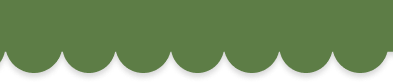
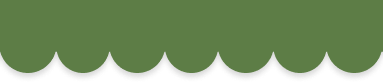
imagemzinha????

diff --git a/NABU_base/CSS/meus_estilos.css b/NABU_base/CSS/meus_estilos.css
@@ -20,12 +20,26 @@
 }
 .corpo {
 
-    max-width: 768px
+    background-color: #1cabc4;
+
+
 
 }
 
 .cabecalho {
-    max-height: 10%;
-    background-color: black;
+    height: 10vh;
+    background-image: url('../Imagens/img_cp/header_bg.png');
+    background-repeat: repeat-x;       /* repete na horizontal */
+    background-size: auto 100%;        /* altura 100%, largura automática */
+    background-position: center;
+
+
+}
+
+footer {
+
+    height: 10vh;
+    background-color: greenyellow;
+
 }
 

diff --git a/NABU_base/Componentes/cp_head.php b/NABU_base/Componentes/cp_head.php
@@ -15,7 +15,7 @@
         <link href="https://cdn.jsdelivr.net/npm/bootstrap-icons@1.10.5/font/bootstrap-icons.css" rel="stylesheet">
         <link href="https://cdn.jsdelivr.net/npm/bootstrap@5.3.2/dist/css/bootstrap.min.css" rel="stylesheet">
         <!-- Core theme CSS (includes Bootstrap)-->
-        <link href="css/styles.css" rel="stylesheet" />
-        <link href="css/meus_estilos.css" rel="stylesheet" />
+        <link href="../CSS/styles.css" rel="stylesheet" />
+        <link href="../CSS/meus_estilos.css" rel="stylesheet" />
     </head>
-    <body id="page-top" >
+    <body class="corpo">

diff --git a/NABU_base/Componentes/cp_footer.php b/NABU_base/Componentes/cp_footer.php
@@ -1,9 +1,5 @@
- <!-- Footer-->
- <footer class="footer small text-center text-white-50 mt-5"><div class="container px-4 px-lg-5">BDTSS &copy; 2023</div></footer>
-        <!-- Bootstrap core JS-->
-        <script src="https://cdn.jsdelivr.net/npm/bootstrap@5.1.3/dist/js/bootstrap.bundle.min.js"></script>
-        <!-- Core theme JS-->
-        <script src="js/scripts.js"></script>
-        <!-- <script src="https://cdn.startbootstrap.com/sb-forms-latest.js"></script> -->
-    </body>
-</html>
+<footer class="fixed-bottom">
+
+    <p>isto é o pé</p>
+
+</footer>

diff --git a/NABU_base/Paginas/index.php b/NABU_base/Paginas/index.php
@@ -1,12 +1,7 @@
-
-
 <?php include_once "../Componentes/cp_head.php" ?>
-
 
 <?php include_once "../Componentes/cp_header.php" ?>
 
+<?php include_once "../Componentes/cp_index.php" ?>
 
-
-
-
-
+<?php include_once "../Componentes/cp_footer.php" ?>

diff --git a/NABU_base/Componentes/cp_header.php b/NABU_base/Componentes/cp_header.php
@@ -1,6 +1,5 @@
-<header class="mainheader cabecalho">
+<header class="cabecalho fixed-top">
     <div>
-        <!-- imagem -->
 
     </div>
 </header>

diff --git a/NABU_base/Componentes/cp_index.php b/NABU_base/Componentes/cp_index.php
@@ -1,0 +1,3 @@
+<?php
+include_once ("cp_intro_index.php");
+

diff --git a/NABU_base/Componentes/cp_intro_index.php b/NABU_base/Componentes/cp_intro_index.php
@@ -1,0 +1,1 @@
+<?php
